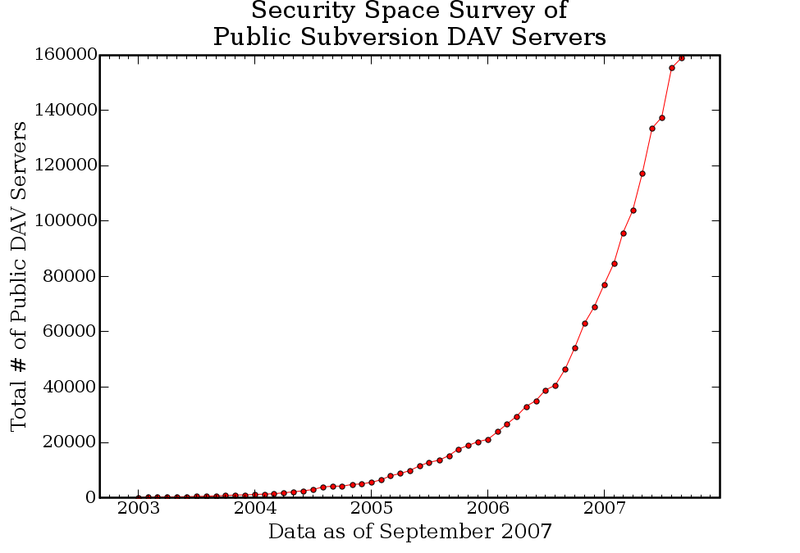
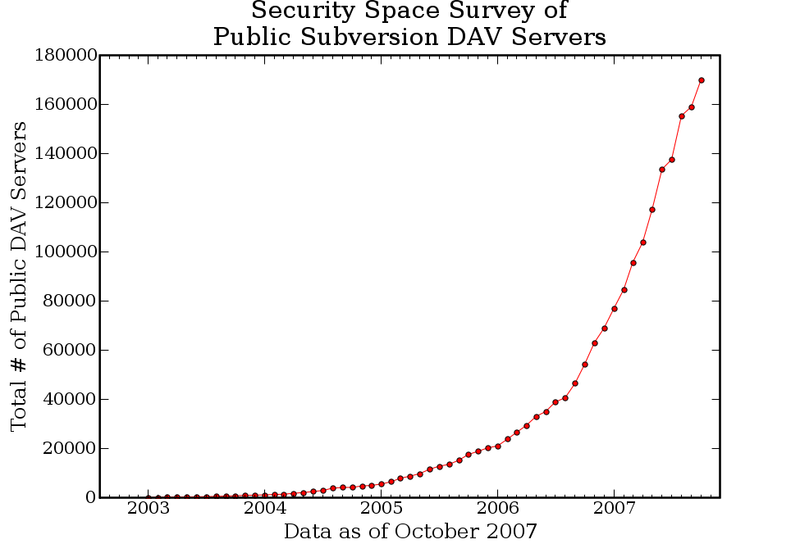
Update the Security Space survey for October 2007.
* www/svn-dav-securityspace-survey.html,
  www/images/svn-dav-securityspace-survey.png,
  tools/dev/graph-dav-servers.py:
  Update image and table.

git-svn-id: http://svn.apache.org/repos/asf/subversion/trunk@867000 13f79535-47bb-0310-9956-ffa450edef68

diff --git a/www/svn-dav-securityspace-survey.html b/www/svn-dav-securityspace-survey.html
@@ -36,12 +36,13 @@ script. -->
 <img src="images/svn-dav-securityspace-survey.png" alt="" />
 
 <p>This information is taken from the <a
-href="http://www.securityspace.com/s_survey/data/man.200708/apachemods.html?mod=U1ZO"
+href="http://www.securityspace.com/s_survey/data/man.200709/apachemods.html?mod=U1ZO"
 >Security Space Apache Modules Survey</a>.  Thanks Security Space!</p>
 
 <table style="margin-left: auto; margin-right: auto;" border="0"
   cellpadding="5" cellspacing="0">
   <tr><th>Date</th><th># Servers</th></tr>
+  <tr><td>October 2007</td><td style="text-align: right">169,939</td></tr>
   <tr><td>September 2007</td><td style="text-align: right">159,055</td></tr>
   <tr><td>August 2007</td><td style="text-align: right">155,426</td></tr>
   <tr><td>July 2007</td><td style="text-align: right">137,575</td></tr>

diff --git a/tools/dev/graph-dav-servers.py b/tools/dev/graph-dav-servers.py
@@ -79,7 +79,8 @@ STATS = """1/1/2003       70
 6/1/2007              133665
 7/1/2007              137575
 8/1/2007              155426
-9/1/2007              159055"""
+9/1/2007              159055
+10/1/2007             169939"""
 
 
 def get_date(raw_date):
